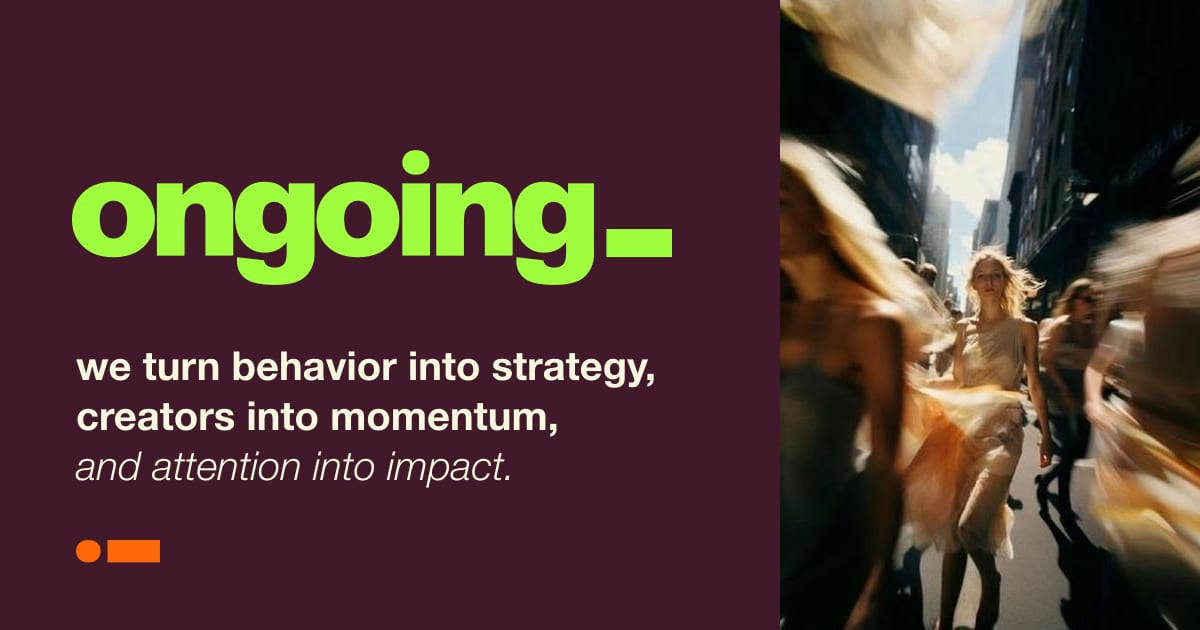
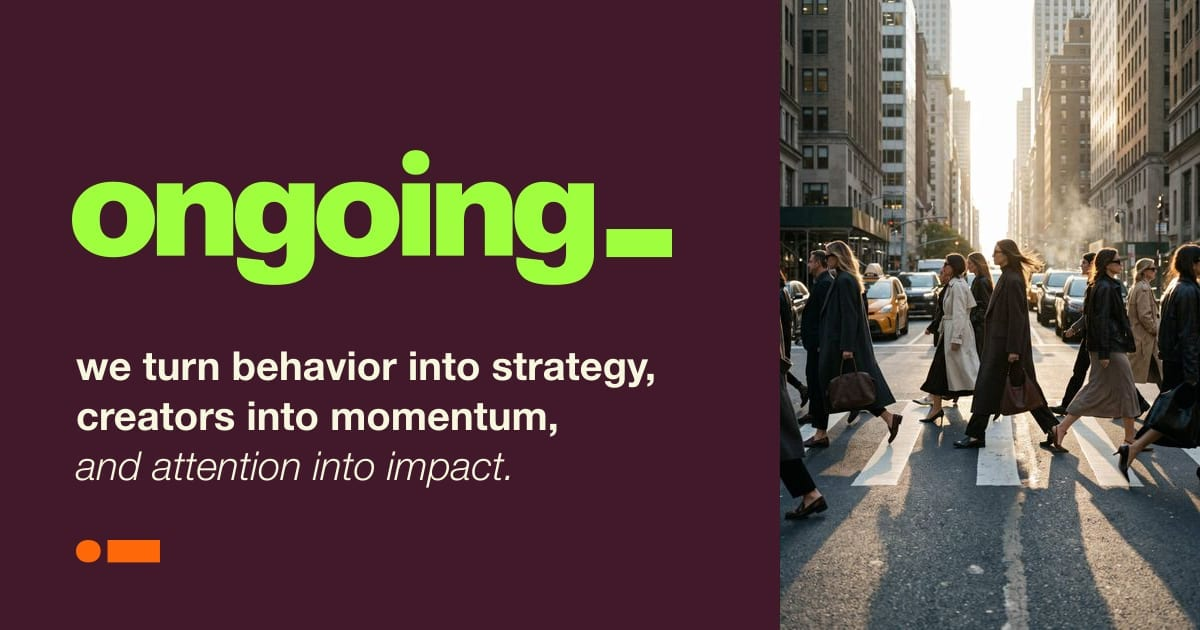
Eigen beelden: alle foto's vervangen door beelden waar we de rechten van hebben
- Home: metro + vrouw achter geribbeld glas (hero), vrouw op de bank + ramen ("hi! we are"), zebrapad in de zon ("we move beyond the feed")
- Who we are: vrouw op de bank + ramen, vrouw in crème jas op zebrapad
- What we do: schaakbord
- Deelplaatje (og-image) met de nieuwe zebrapadfoto
- Oude foto's verwijderd; test bewaakt dat er geen ongebruikte foto's in de repo blijven
- Foto's maximaal 1280px breed en reserve-afbeelding ook WebP, zodat alles onder 200 kB blijft

diff --git a/tests/repo.test.ts b/tests/repo.test.ts
@@ -27,6 +27,17 @@ describe('repo', () => {
     expect(toml).toMatch(/from = "\/about"\s+to = "\/who-we-are\/"\s+status = 301/);
   });
 
+  // Alleen foto's waar we de rechten van hebben: wat niet meer op de site staat, hoort ook niet in de repo.
+  it('bevat alleen foto’s die op een pagina gebruikt worden', () => {
+    const photos = files.filter((file) => file.startsWith('src/assets/images/'));
+    const code = files
+      .filter((file) => /^src\/.*\.(astro|ts)$/.test(file))
+      .map((file) => readFileSync(file, 'utf8'))
+      .join('\n');
+    expect(photos.length).toBeGreaterThan(0);
+    for (const photo of photos) expect(code, photo).toContain(`assets/images/${photo.split('/').pop()}`);
+  });
+
   it('bevat geen sleutels of wachtwoorden', () => {
     const text = files
       .filter((file) => /\.(ts|astro|mjs|js|json|toml|md|css)$/.test(file) && !file.endsWith('package-lock.json'))
